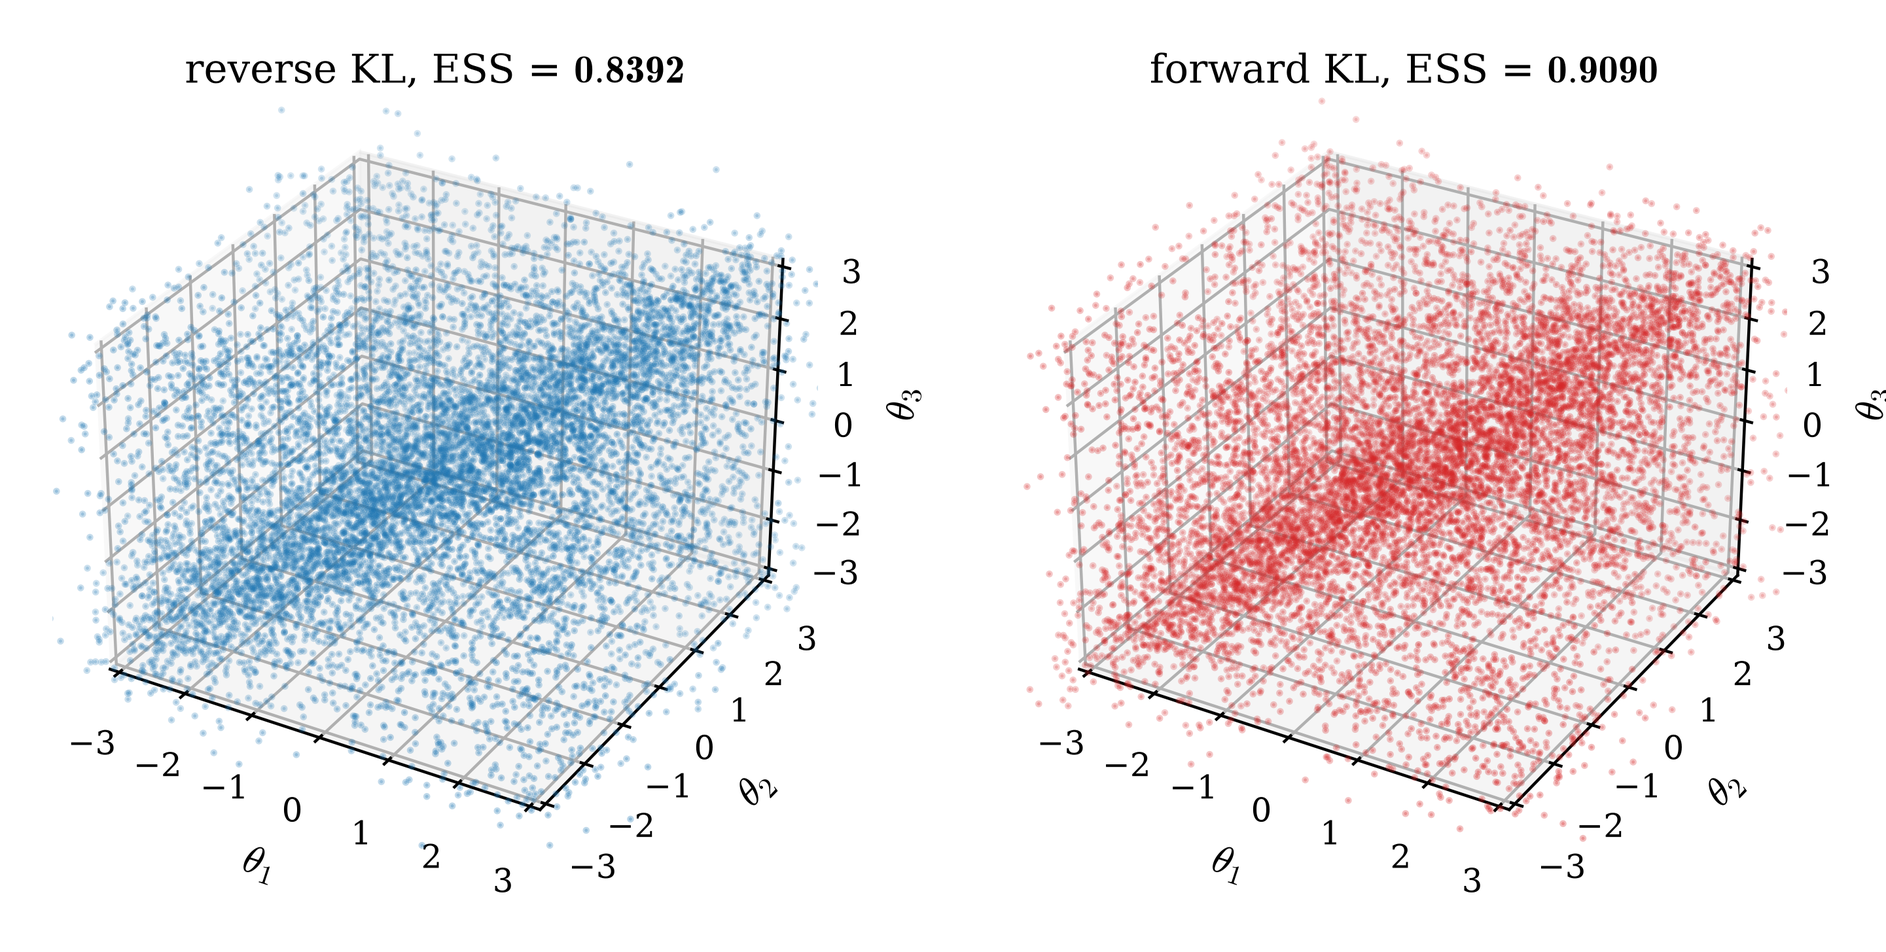
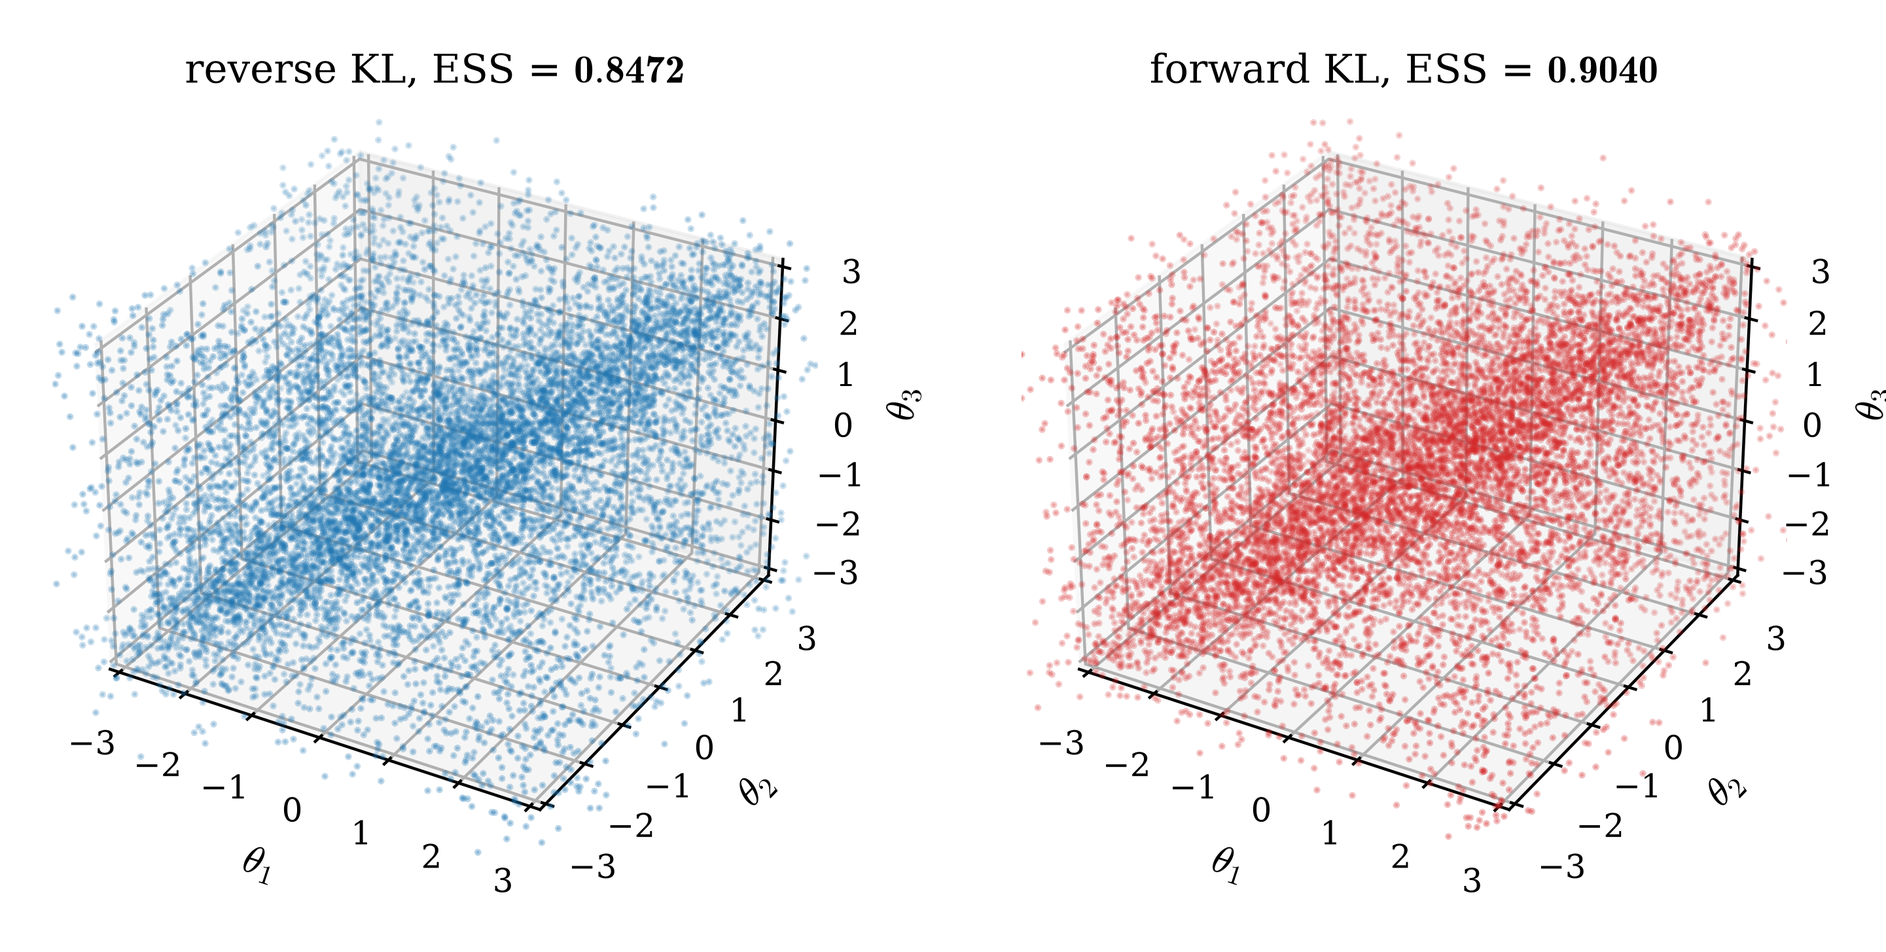
boltzmann_*: n_pool selection pool for the SMC gate
- train.py: all three boltzmann_* drivers take n_pool (in front of n_batch);
  each stage draws an n_pool-sized pool with replacement from the particle
  set, rejuvenates it at U_{t_{k-1}} (the set is exact mu_0 at t = 0), and
  the tau_smc SMC gate evaluates on that pool — the reference run_boltzmann
  steps (i)(ii); training batches, validation ESS, and the advance stay on
  the full set
- smoke/test_boltzmann.py: N_POOL param threaded through all call sites
- example/4D_boltzmann.py: N_POOL = 24000 literal + START log field
- example/results.md: 4D tables refreshed (reverse ladder now 5 stages from
  the pool-based gate, forward unchanged); 2D_single / 3D_periodic /
  CNF_vs_OTFlow tables synced to the regenerated figures and CSV
- README.md: boltzmann_reverse_KL snippet includes n_pool

diff --git a/jflows/train.py b/jflows/train.py
@@ -362,8 +362,8 @@ def train_forward_KLX_G(
 
     The ESS history is the honest flow-vs-target overlap of each step's
     manufactured batch, compute_ESS_log(z) with the log-ratio z above (at no
-    extra flow evaluations — z falls out of the loss forward pass), NOT the
-    regularized loss, so its value is unaffected by coeff_lambda. Since y is
+    extra flow evaluations — z falls out of the loss forward pass), so its
+    value is unaffected by coeff_lambda. Since y is
     (approximately) target-distributed, this is the reverse-direction chi^2
     overlap — in (0, 1], equal to 1 iff proposal == target.
 
@@ -436,6 +436,7 @@ def train_forward_KLX_G(
 
 _iw_log_jit = eqx.filter_jit(importance_weights_log)
 _smc_jit = eqx.filter_jit(sequential_monte_carlo)
+_langevin_jit = eqx.filter_jit(langevin)   # per-stage selection-pool rejuvenation
 
 
 @eqx.filter_jit
@@ -471,6 +472,7 @@ def boltzmann_reverse_KL(
     target: Potential,
     flow: Flow,
     type: str,
+    n_pool: int,
     n_batch: int,
     steps: int,
     lr: float,
@@ -495,12 +497,14 @@ def boltzmann_reverse_KL(
     only ever learns a small deformation. Stage k runs
 
         1. selection:       when tau_smc > 0, a `ladder`-rung SMC check
-                            from U_{t_{k-1}} to the candidate bridge on
-                            the particle set shrinks t_k until its
-                            MINIMUM per-rung ESS clears tau_smc (at most
-                            60 shrinks, as in the reference
-                            adaptive_step) — SMC is far cheaper than a
-                            training attempt, so the gate filters
+                            from U_{t_{k-1}} to the candidate bridge on an
+                            `n_pool`-sized selection pool — drawn with
+                            replacement from the particle set and
+                            Langevin-rejuvenated at U_{t_{k-1}} — shrinks
+                            t_k until its MINIMUM per-rung ESS clears
+                            tau_smc (at most 60 shrinks, as in the
+                            reference adaptive_step) — SMC is far cheaper
+                            than a training attempt, so the gate filters
                             over-aggressive t_k for free;
         2. training:        `train_reverse_KL(y, U_{t_{k-1}}, U_{t_k},
                             flow, type, ...)` — a packed reverse KL
@@ -548,6 +552,9 @@ def boltzmann_reverse_KL(
         flow:     Flow           the normalizing flow to train
         type:     str            'F' if the flow maps source -> target;
                                  'G' if it maps target -> source
+        n_pool:   int            selection-pool size: the tau_smc gate runs on
+                                 this many particles drawn (with replacement)
+                                 from the particle set per stage
         n_batch:  int            samples drawn from the particle set per Adam step
         steps:    int            Adam steps per stage attempt
         lr:       float          Adam learning rate
@@ -617,13 +624,21 @@ def boltzmann_reverse_KL(
         if 1.0 - t_k < p["t_tol"]:
             t_k = 1.0
         u_prev = linear_combination([target, source], [t_prev, 1.0 - t_prev])
-        # (1) SMC pre-selection of t_k (the reference adaptive_step): shrink
-        # until the single-rung SMC ESS on the particle set clears tau_smc
+        # (1) selection pool + SMC pre-selection of t_k (the reference
+        # adaptive_step): the gate runs on an n_pool-sized pool drawn with
+        # replacement from the particle set and rejuvenated at U_{t_{k-1}}
+        # (the set is exact mu_0 at t = 0); shrink t_k until the pool's
+        # minimum per-rung SMC ESS clears tau_smc
         if p["tau_smc"] > 0.0:
+            key_pool, key_mc_pool = jax.random.split(jax.random.fold_in(key, 20_000 + k))
+            pool = y_valid[jax.random.randint(key_pool, (n_pool,), 0, y_valid.shape[0])]
+            if t_prev > 0.0:
+                pool = _langevin_jit(key_mc_pool, pool, u_prev, step=mc_step,
+                                     iters=mc_iters, adjust=mc_adjust, chunk=chunk)
             smc_base = jax.random.fold_in(key, 10_000 + k)  # disjoint from the advance keys
             for s_i in range(60):                           # max_shrinks, as in the reference
                 u_k = linear_combination([target, source], [t_k, 1.0 - t_k])
-                _, smc_ess = _smc_jit(jax.random.fold_in(smc_base, s_i), y_valid,
+                _, smc_ess = _smc_jit(jax.random.fold_in(smc_base, s_i), pool,
                                       u_prev, u_k, ladder=ladder, step=mc_step,
                                       iters=mc_iters, adjust=mc_adjust, chunk=chunk)
                 ess_smc = float(smc_ess.min())
@@ -683,6 +698,7 @@ def boltzmann_forward_KL(
     target: Potential,
     flow: Flow,
     type: str,
+    n_pool: int,
     n_batch: int,
     steps: int,
     lr: float,
@@ -707,9 +723,10 @@ def boltzmann_forward_KL(
     distribution mu_{t_{k-1}} to the next bridge mu_{t_k}. Stage k runs
 
         1. selection:       when tau_smc > 0, a `ladder`-rung SMC check
-                            from U_{t_{k-1}} to the candidate bridge
-                            shrinks t_k until its MINIMUM per-rung ESS
-                            clears tau_smc (at most 60 shrinks);
+                            from U_{t_{k-1}} to the candidate bridge on an
+                            `n_pool`-sized selection pool drawn from the
+                            particle set shrinks t_k until its MINIMUM
+                            per-rung ESS clears tau_smc (at most 60 shrinks);
         2. training:        `train_forward_KL(y, U_{t_{k-1}}, U_{t_k},
                             flow, type, ...)` — each Adam step draws an
                             `n_batch` subset of the particle set and
@@ -767,12 +784,18 @@ def boltzmann_forward_KL(
         if 1.0 - t_k < p["t_tol"]:
             t_k = 1.0
         u_prev = linear_combination([target, source], [t_prev, 1.0 - t_prev])
-        # (1) SMC pre-selection of t_k
+        # (1) SMC pre-selection of t_k on an n_pool-sized selection pool
+        # (drawn with replacement, rejuvenated at U_{t_{k-1}} when t > 0)
         if p["tau_smc"] > 0.0:
+            key_pool, key_mc_pool = jax.random.split(jax.random.fold_in(key, 20_000 + k))
+            pool = y_valid[jax.random.randint(key_pool, (n_pool,), 0, y_valid.shape[0])]
+            if t_prev > 0.0:
+                pool = _langevin_jit(key_mc_pool, pool, u_prev, step=mc_step,
+                                     iters=mc_iters, adjust=mc_adjust, chunk=chunk)
             smc_base = jax.random.fold_in(key, 10_000 + k)  # disjoint from the advance keys
             for s_i in range(60):                           # max_shrinks, as in the reference
                 u_k = linear_combination([target, source], [t_k, 1.0 - t_k])
-                _, smc_ess = _smc_jit(jax.random.fold_in(smc_base, s_i), y_valid,
+                _, smc_ess = _smc_jit(jax.random.fold_in(smc_base, s_i), pool,
                                       u_prev, u_k, ladder=ladder, step=mc_step,
                                       iters=mc_iters, adjust=mc_adjust, chunk=chunk)
                 ess_smc = float(smc_ess.min())
@@ -828,6 +851,7 @@ def boltzmann_forward_KLX_G(
     source: Potential,
     target: Potential,
     flow: Flow,
+    n_pool: int,
     n_batch: int,
     steps: int,
     lr: float,
@@ -882,12 +906,18 @@ def boltzmann_forward_KLX_G(
         if 1.0 - t_k < p["t_tol"]:
             t_k = 1.0
         u_prev = linear_combination([target, source], [t_prev, 1.0 - t_prev])
-        # (1) SMC pre-selection of t_k
+        # (1) SMC pre-selection of t_k on an n_pool-sized selection pool
+        # (drawn with replacement, rejuvenated at U_{t_{k-1}} when t > 0)
         if p["tau_smc"] > 0.0:
+            key_pool, key_mc_pool = jax.random.split(jax.random.fold_in(key, 20_000 + k))
+            pool = y_valid[jax.random.randint(key_pool, (n_pool,), 0, y_valid.shape[0])]
+            if t_prev > 0.0:
+                pool = _langevin_jit(key_mc_pool, pool, u_prev, step=mc_step,
+                                     iters=mc_iters, adjust=mc_adjust, chunk=chunk)
             smc_base = jax.random.fold_in(key, 10_000 + k)  # disjoint from the advance keys
             for s_i in range(60):                           # max_shrinks, as in the reference
                 u_k = linear_combination([target, source], [t_k, 1.0 - t_k])
-                _, smc_ess = _smc_jit(jax.random.fold_in(smc_base, s_i), y_valid,
+                _, smc_ess = _smc_jit(jax.random.fold_in(smc_base, s_i), pool,
                                       u_prev, u_k, ladder=ladder, step=mc_step,
                                       iters=mc_iters, adjust=mc_adjust, chunk=chunk)
                 ess_smc = float(smc_ess.min())

diff --git a/smoke/test_boltzmann.py b/smoke/test_boltzmann.py
@@ -18,7 +18,8 @@ For boltzmann_reverse_KL (the adaptive-ladder annealed BG):
        validation, and acceptance lines;
     7. tau_smc pre-selection: a gated ladder (tau_smc > 0, MALA,
        ladder = 2) shrinks over-aggressive t_k via the multi-rung SMC
-       check and still completes, with [select] lines reported;
+       check on an n_pool-sized selection pool and still completes,
+       with [select] lines reported;
     8. boltzmann_forward_KL: the forward KL twin (per-step AIS through
        the current flow, type='G') completes its ladder with the same
        record contract;
@@ -49,7 +50,7 @@ LOG = os.path.join(HERE, "test_boltzmann.log")
 
 FAILURES = 0
 
-N_VALID, N_BATCH, STEPS, LR = 4000, 500, 100, 2e-3
+N_VALID, N_POOL, N_BATCH, STEPS, LR = 4000, 1000, 500, 100, 2e-3
 MC_STEP, MC_ITERS = 1e-3, 20
 TAU = 0.5
 BG = {"t_safe": 0.3, "tau_ess": TAU}
@@ -106,7 +107,7 @@ def main() -> None:
     lines: list[str] = []
     y, stages = boltzmann_reverse_KL(
         x_valid, u0, u1, flow0, type="F",
-        n_batch=N_BATCH, steps=STEPS, lr=LR, ladder=1,
+        n_pool=N_POOL, n_batch=N_BATCH, steps=STEPS, lr=LR, ladder=1,
         mc_step=MC_STEP, mc_iters=MC_ITERS,
         monitor=Monitor(STEPS, "[t] ", lines.append), bg_param=BG,
     )
@@ -135,7 +136,7 @@ def main() -> None:
     log("determinism")
     y2, stages2 = boltzmann_reverse_KL(
         x_valid, u0, u1, flow0, type="F",
-        n_batch=N_BATCH, steps=STEPS, lr=LR, ladder=1,
+        n_pool=N_POOL, n_batch=N_BATCH, steps=STEPS, lr=LR, ladder=1,
         mc_step=MC_STEP, mc_iters=MC_ITERS,
         bg_param=BG,
     )
@@ -149,7 +150,8 @@ def main() -> None:
     sel_lines: list[str] = []
     y3, stages3 = boltzmann_reverse_KL(
         x_valid, u0, u1, flow0, type="F",
-        n_batch=N_BATCH, steps=STEPS, lr=LR, mc_step=MC_STEP, mc_iters=MC_ITERS,
+        n_pool=N_POOL, n_batch=N_BATCH, steps=STEPS, lr=LR,
+        mc_step=MC_STEP, mc_iters=MC_ITERS,
         ladder=2, mc_adjust=True,
         monitor=Monitor(STEPS, "[t] ", sel_lines.append),
         bg_param={"t_safe": 0.3, "tau_ess": TAU, "tau_smc": 0.2},
@@ -164,7 +166,7 @@ def main() -> None:
     log("boltzmann_forward_KL ladder")
     yf, stages_f = boltzmann_forward_KL(
         x_valid, u0, u1, flow0, type="G",
-        n_batch=N_BATCH, steps=STEPS, lr=LR, ladder=1,
+        n_pool=N_POOL, n_batch=N_BATCH, steps=STEPS, lr=LR, ladder=1,
         mc_step=MC_STEP, mc_iters=MC_ITERS, mc_adjust=True,
         bg_param=BG,
     )
@@ -193,8 +195,8 @@ def main() -> None:
     ):
         try:
             boltzmann_reverse_KL(x_valid, u0, u1, flow0,
-                                 n_batch=N_BATCH, steps=1, lr=LR, ladder=1,
-                                 mc_step=MC_STEP, mc_iters=1, **kwargs)
+                                 n_pool=N_POOL, n_batch=N_BATCH, steps=1, lr=LR,
+                                 ladder=1, mc_step=MC_STEP, mc_iters=1, **kwargs)
             check_true(f"rejects {name}", False)
         except ValueError:
             check_true(f"rejects {name}", True)

diff --git a/example/4D_boltzmann.py b/example/4D_boltzmann.py
@@ -68,6 +68,7 @@ HIDDEN_FEATURES = (64, 64)   # hidden widths of each conditioner MLP
 
 # training parameters
 N_VALID: int = 120000   # the fixed source set (training pool + validation ESS)
+N_POOL: int = 24000    # selection-pool size of the tau_smc SMC gate
 N_BATCH: int = 2000    # batch drawn from the fixed set per Adam step
 STEPS: int = 500       # Adam steps per stage attempt (one compiled call)
 LR: float = 1e-4       # Adam learning rate
@@ -129,8 +130,8 @@ def log(msg: str) -> None:
 def main() -> None:
     open(LOG, "w").close()   # fresh log per run (no appending)
     log(f"START 4D_boltzmann | jax {jax.__version__} | "
-        f"backend {jax.default_backend()} | N_VALID={N_VALID} N_BATCH={N_BATCH} "
-        f"STEPS={STEPS} LR={LR} MC={MC_STEP}x{MC_ITERS} bg={BG_PARAM}")
+        f"backend {jax.default_backend()} | N_VALID={N_VALID} N_POOL={N_POOL} "
+        f"N_BATCH={N_BATCH} STEPS={STEPS} LR={LR} MC={MC_STEP}x{MC_ITERS} bg={BG_PARAM}")
     x_valid = u0.samples(jax.random.key(2), N_VALID)  # the fixed N_VALID source set
 
     def new_flow(key):
@@ -145,7 +146,7 @@ def main() -> None:
         t0 = time.time()
         y, stages = driver(
             x_valid, u0, u1, new_flow(key_f), type=tp,
-            n_batch=N_BATCH, steps=STEPS, lr=LR, ladder=LADDER,
+            n_pool=N_POOL, n_batch=N_BATCH, steps=STEPS, lr=LR, ladder=LADDER,
             mc_step=MC_STEP, mc_iters=MC_ITERS,
             monitor=Monitor(MONITOR_EVERY, f"[{name}] ", log), bg_param=BG_PARAM,
         )

diff --git a/example/results.md b/example/results.md
@@ -21,8 +21,8 @@ Both trainers regenerate their batch inside every Adam step. The reverse KL flow
 
 | objective  | final ESS ($N = 40000$) | batch ESS along training |
 | :--------: | :---------------------: | :----------------------: |
-| reverse KL |         0.9245          |   0.19 -> 0.85 -> 0.93   |
-| forward KL |         0.9496          |   0.74 -> 0.97 -> 0.98   |
+| reverse KL |         0.9242          |   0.35 -> 0.88 -> 0.94   |
+| forward KL |         0.9455          |   0.84 -> 0.96 -> 0.97   |
 
 </div>
 
@@ -32,7 +32,7 @@ The left panel shows the per-step batch-ESS histories returned by the trainers (
 
 ### Reading the result
 
-Both flows populate all three modes, and the AIS-fed forward KL ends with the higher ESS: its data pipeline supplies (approximately) target-distributed samples covering every mode from the first step — its batch ESS starts already at $\sim 0.75$ — while the reverse KL starts near $0.19$ and pays its mode-seeking tax as the barriers grow. On a harder target — farther modes, or modes the initial proposal never reaches — the reverse objective can collapse entirely, and the forward objective inherits whatever the AIS chain covers; that regime (and the regularization that addresses it) is the subject of the X-regularization line of work these conventions come from.
+Both flows populate all three modes, and the AIS-fed forward KL ends with the higher ESS: its data pipeline supplies (approximately) target-distributed samples covering every mode from the first step — its batch ESS starts already at $\sim 0.84$ — while the reverse KL starts near $0.35$ and pays its mode-seeking tax as the barriers grow. On a harder target — farther modes, or modes the initial proposal never reaches — the reverse objective can collapse entirely, and the forward objective inherits whatever the AIS chain covers; that regime (and the regularization that addresses it) is the subject of the X-regularization line of work these conventions come from.
 
 Two practical notes. First, wall clock: each packed 200-step training compiles in a few seconds and executes in 1.5–2.5 s on an RTX 5070 Ti; the whole script (both trainings, evaluation, figure) runs in about 12 s. Second, reproducibility: the trainers are deterministic within a process (fixed internal seed — two identical calls agree bit for bit), while across separate launches XLA kernel autotuning can introduce last-ulp differences that 200 training steps amplify, so the final ESS varies by a few times $10^{-2}$ between runs (reverse KL $\approx 0.92$–$0.93$, forward KL $\approx 0.95$).
 
@@ -54,8 +54,8 @@ Run by [`3D_periodic.py`](3D_periodic.py): its purpose is to show that the **NCS
 
 | objective  | final ESS ($N = 40000$) |
 | :--------: | :---------------------: |
-| reverse KL |         0.8392          |
-| forward KL |         0.9090          |
+| reverse KL |         0.8472          |
+| forward KL |         0.9040          |
 
 </div>
 
@@ -74,7 +74,7 @@ The 4D two-charge target, sampled by [`4D_boltzmann.py`](4D_boltzmann.py) with B
   $U_1(x) = a\,[(\lVert x_1\rVert^2 - r_0^2)^2 + (\lVert x_2\rVert^2 - r_0^2)^2] + q^2 / \sqrt{\lVert x_1 - x_2\rVert^2 + \varepsilon^2}$
   with $r_0 = 2$, $a = 1$, $q^2 = 4$, $\varepsilon = 10^{-3}$ (identical to the original).
 - **Flow**: NSF on $[-3, 3]^4$, 8 bins, 6 autoregressive transforms, $(64, 64)$ conditioners, identity-initialised.
-- **Boltzmann generators**: the stage flows are connected step by step — stage $k$ selects $t_k$ through the SMC gate (`tau_smc`, `LADDER = 1` rung), trains the warm-started flow as the incremental map $\mu_{t_{k-1}} \to \mu_{t_k}$ on the advancing particle set, accepts on the incremental importance-sampling ESS (`tau_ess`), and advances the set by reweight → resample → MALA at $U_{t_k}$ (`mc_adjust = True`; the Metropolis gate keeps the near-singular Coulomb tail out of the particle set). The reverse KL stages train on Langevin-freshened batches of the set; the forward KL stages train on target batches manufactured per Adam step by AIS through the current flow (SMC gate and AIS share `LADDER`). Parameters: `N_VALID = 120000`, `N_BATCH = 2000`, `STEPS = 500`, `LR = 1e-4`, MALA `1e-3 × 100`; ladder `t_safe = 0.2`, `shrink_factor = 0.7`, `enlarge_factor = 1.5`, `tau_smc = 0.2`, `tau_ess = 0.6`.
+- **Boltzmann generators**: the stage flows are connected step by step — stage $k$ selects $t_k$ through the SMC gate (`tau_smc`, `LADDER = 1` rung, on an `N_POOL`-sized selection pool drawn from the particle set), trains the warm-started flow as the incremental map $\mu_{t_{k-1}} \to \mu_{t_k}$ on the advancing particle set, accepts on the incremental importance-sampling ESS (`tau_ess`), and advances the set by reweight → resample → MALA at $U_{t_k}$ (`mc_adjust = True`; the Metropolis gate keeps the near-singular Coulomb tail out of the particle set). The reverse KL stages train on Langevin-freshened batches of the set; the forward KL stages train on target batches manufactured per Adam step by AIS through the current flow (SMC gate and AIS share `LADDER`). Parameters: `N_VALID = 120000`, `N_POOL = 24000`, `N_BATCH = 2000`, `STEPS = 500`, `LR = 1e-4`, MALA `1e-3 × 100`; ladder `t_safe = 0.2`, `shrink_factor = 0.7`, `enlarge_factor = 1.5`, `tau_smc = 0.2`, `tau_ess = 0.6`.
 
 ### Results
 
@@ -82,10 +82,10 @@ Both ladders reach $t = 1$ in four stages (~8-10 s each on the full 120000-parti
 
 <div align="center">
 
-| reverse KL, stage $k$ |   1   |   2   |   3   |   4   |
-| :-------------------: | :---: | :---: | :---: | :---: |
-|         $t_k$         | 0.14  | 0.35  | 0.665 |  1.0  |
-|          ESS          | 0.620 | 0.894 | 0.954 | 0.985 |
+| reverse KL, stage $k$ |   1   |   2   |   3   |   4   |   5   |
+| :-------------------: | :---: | :---: | :---: | :---: | :---: |
+|         $t_k$         | 0.098 | 0.245 | 0.466 | 0.796 |  1.0  |
+|          ESS          | 0.654 | 0.814 | 0.944 | 0.972 | 0.993 |
 
 </div>
 
@@ -94,7 +94,7 @@ Both ladders reach $t = 1$ in four stages (~8-10 s each on the full 120000-parti
 | forward KL, stage $k$ |   1   |   2   |   3   |   4   |
 | :-------------------: | :---: | :---: | :---: | :---: |
 |         $t_k$         | 0.20  | 0.50  | 0.95  |  1.0  |
-|          ESS          | 0.764 | 0.899 | 0.963 | 0.987 |
+|          ESS          | 0.764 | 0.898 | 0.962 | 0.986 |
 
 </div>
 
@@ -104,7 +104,7 @@ Each row (top: reverse KL; bottom: forward KL) shows the adaptive ladder ($t_k$ 
 
 ### Reading the result
 
-The ESS trace follows the reference behaviour of the original fixed-ladder run — a lower leading rung, then a high plateau — while the ESS-gated selection compresses the schedule: the leading increment is small (`t_safe`), the accepted step then grows by the enlarge factor, and the final extrapolation snaps to $t = 1$, so four stages cover what the fixed schedule spent twelve rungs on. The generator's sample output is the advanced particle set; the per-stage incremental flows and their acceptance ESS are returned in the stage records.
+The ESS trace follows the reference behaviour of the original fixed-ladder run — a lower leading rung, then a high plateau — while the ESS-gated selection compresses the schedule: the leading increment is small (`t_safe`), the accepted step then grows by the enlarge factor, and the final extrapolation snaps to $t = 1$, so four or five stages cover what the fixed schedule spent twelve rungs on. The generator's sample output is the advanced particle set; the per-stage incremental flows and their acceptance ESS are returned in the stage records.
 
 ## CNF_vs_OTFlow — continuous flows across dimension
 
@@ -124,8 +124,8 @@ CNF versus OTFlow on a fixed multi-modal target as the dimension grows, run by [
 
 | flow   | $d=4$  | $d=8$  | $d=16$ | $d=32$ | $d=64$ | $d=128$ |
 | :----: | :----: | :----: | :----: | :----: | :----: | :-----: |
-| CNF    | 0.9704 | 0.9579 | 0.9310 | 0.8824 | 0.7411 | 0.4289  |
-| OTFlow | 0.9712 | 0.9595 | 0.9455 | 0.9144 | 0.8594 | 0.6150  |
+| CNF    | 0.9705 | 0.9579 | 0.9311 | 0.8824 | 0.7412 | 0.4293  |
+| OTFlow | 0.9713 | 0.9595 | 0.9456 | 0.9145 | 0.8588 | 0.6166  |
 
 </div>
 

diff --git a/README.md b/README.md
@@ -141,7 +141,7 @@ from jflows.train import boltzmann_reverse_KL
 
 y_valid, stages = boltzmann_reverse_KL(
     x_valid, source, target, flow, type="F",
-    n_batch=2000, steps=500, lr=1e-4, ladder=1, mc_step=1e-3, mc_iters=100,
+    n_pool=24000, n_batch=2000, steps=500, lr=1e-4, ladder=1, mc_step=1e-3, mc_iters=100,
     bg_param={"t_safe": 0.1, "shrink_factor": 0.7, "enlarge_factor": 1.5, "tau_ess": 0.6},
 )
 # y_valid : the advanced validation set at the target (the generator's sample output)
